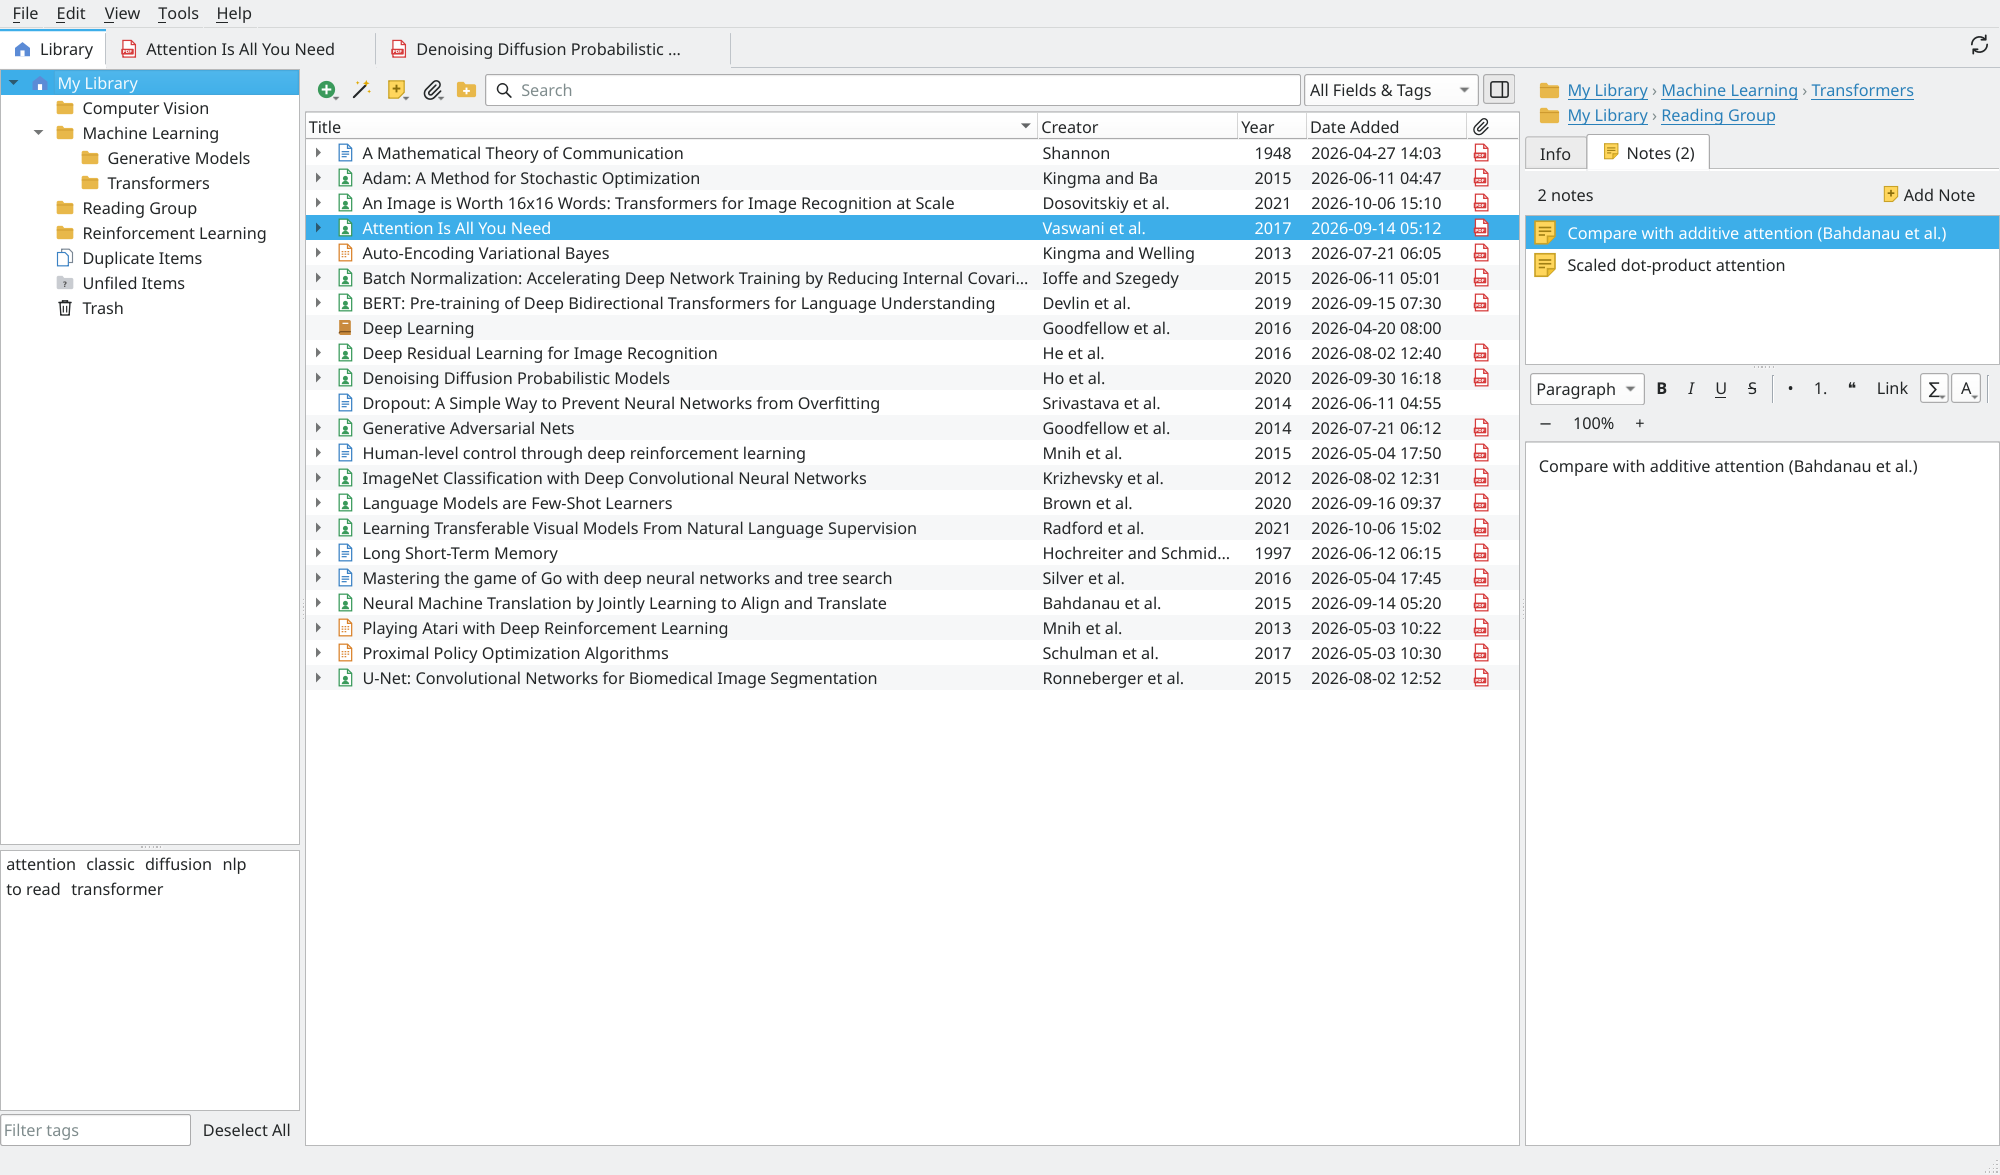
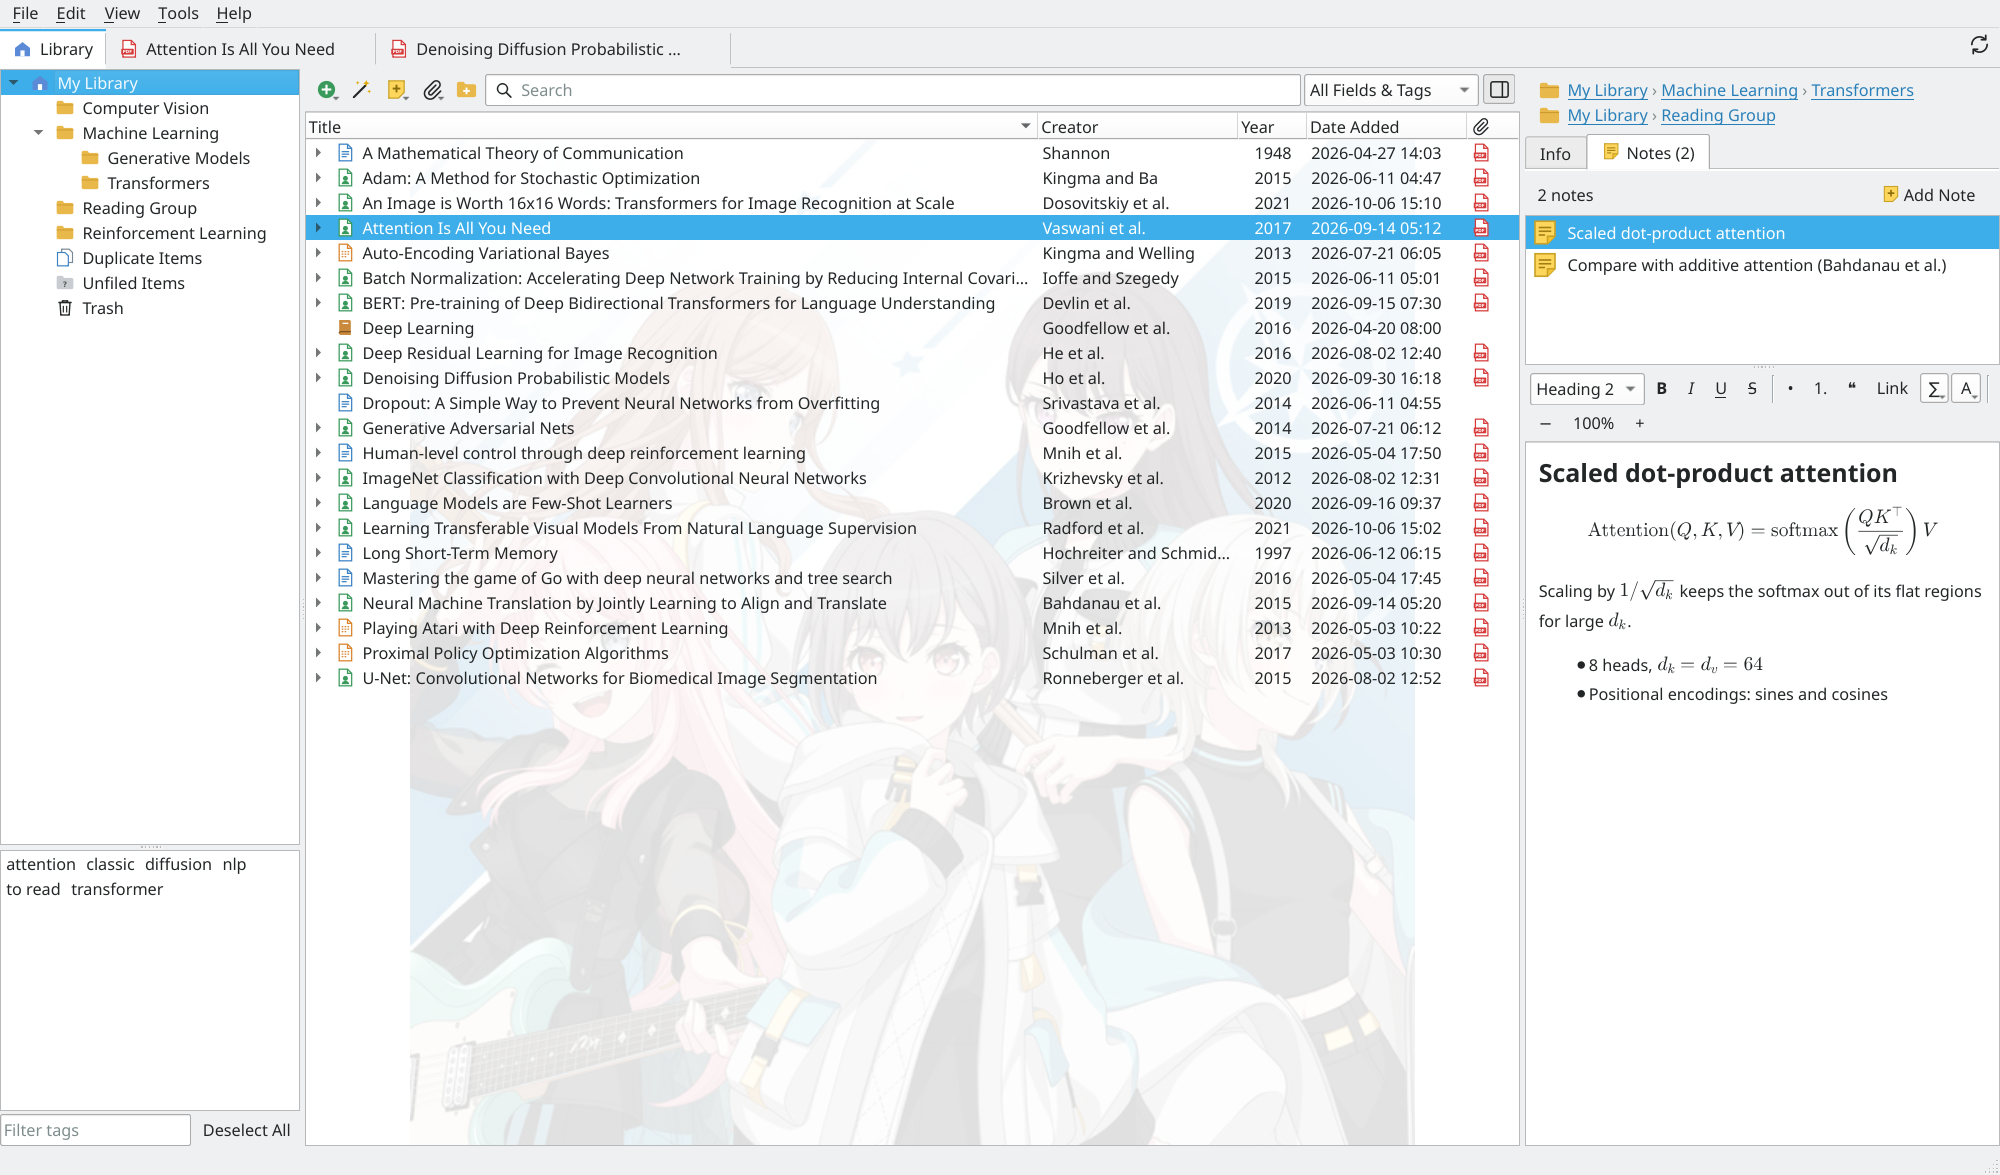
README: the screenshot with a background picture
The screenshot shows one of the pictures behind the item list, picked at
random each time the test draws it.

diff --git a/tests/gui/test_gui.cpp b/tests/gui/test_gui.cpp
@@ -20,6 +20,7 @@
 #include <QToolBar>
 #include <QListWidget>
 #include <QProxyStyle>
+#include <QRandomGenerator>
 #include <QStyleFactory>
 #include <QStyleHints>
 #include <QTreeView>
@@ -3842,7 +3843,8 @@ TEST_CASE("main window: the tab strip never shows a stray or misplaced tab")
     }
 }
 
-// The README's screenshot, of a library of well-known papers (nobody's own). Run again
+// The README's screenshot, of a library of well-known papers (nobody's own), one of the
+// background pictures behind it, picked at random. Run again
 // after changing the look (one command):
 //   OURNOTES_SCREENSHOT=docs/images/screenshot.png QT_SCALE_FACTOR=1.25
 //   ./build/tests/gui/test_gui -tc="docs: *"
@@ -3855,7 +3857,18 @@ TEST_CASE("docs: the README's screenshot" * doctest::skip(!std::getenv("OURNOTES
     writeSamplePdf(file);
     applyAppearance(Appearance::Light);
     QApplication::setFont(QFont("Noto Sans", 10));
-    env.config.set("/ui/bandBackground", false);
+    // one of the pictures behind the item list, any (the tests have none built in)
+    std::vector<fs::path> pictures;
+    auto source = (fs::path(OURNOTES_TEST_DATA_DIR) / ".." / ".." / "..").lexically_normal();
+    for (auto& e : fs::directory_iterator(source / "resources" / "bands"))
+        if (e.path().extension() == ".jpg" || e.path().extension() == ".png")
+            pictures.push_back(e.path());
+    REQUIRE(!pictures.empty());
+    auto behind = env.library.dataDir() / "backgrounds" / "bands";
+    fs::create_directories(behind);
+    auto picture = pictures[QRandomGenerator::global()->bounded(int(pictures.size()))];
+    fs::copy_file(picture, behind / picture.filename());
+    env.config.set("/ui/bandBackground", true);
     env.config.set("/connector/enabled", false);  // no word in the status bar of a running OurNotes's port
     env.config.set("/ui/itemPaneTab", "notes");
     auto& lib = env.library;
